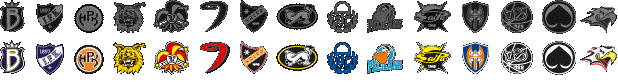
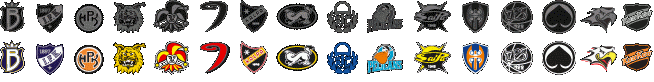
Welcome to Liiga, KooKoo

diff --git a/translations/harbour-toomiich-fi.ts b/translations/harbour-toomiich-fi.ts
@@ -1,13 +1,6 @@
 <?xml version="1.0" encoding="utf-8"?>
 <!DOCTYPE TS>
-<TS version="2.0" language="fi_FI">
-<context>
-    <name>2miich</name>
-    <message>
-        <source>2miich</source>
-        <translation type="obsolete">2miich</translation>
-    </message>
-</context>
+<TS version="2.1" language="fi_FI">
 <context>
     <name>DetailsPage</name>
     <message>
@@ -68,27 +61,27 @@
 <context>
     <name>ScoresPage</name>
     <message>
-        <location filename="../qml/pages/ScoresPage.qml" line="200"/>
+        <location filename="../qml/pages/ScoresPage.qml" line="201"/>
         <source>No games for the day</source>
         <translation>Ei otteluita päivälle</translation>
     </message>
     <message>
-        <location filename="../qml/pages/ScoresPage.qml" line="206"/>
+        <location filename="../qml/pages/ScoresPage.qml" line="207"/>
         <source>Statistics</source>
         <translation>Tilastot</translation>
     </message>
     <message>
-        <location filename="../qml/pages/ScoresPage.qml" line="211"/>
+        <location filename="../qml/pages/ScoresPage.qml" line="212"/>
         <source>Go to today</source>
         <translation>Näytä tämä päivä</translation>
     </message>
     <message>
-        <location filename="../qml/pages/ScoresPage.qml" line="215"/>
+        <location filename="../qml/pages/ScoresPage.qml" line="216"/>
         <source>Previous: </source>
         <translation>Edeltävät: </translation>
     </message>
     <message>
-        <location filename="../qml/pages/ScoresPage.qml" line="223"/>
+        <location filename="../qml/pages/ScoresPage.qml" line="224"/>
         <source>Next: </source>
         <translation>Seuraavat: </translation>
     </message>
@@ -154,13 +147,6 @@
         <location filename="../qml/pages/StatisticsPage.qml" line="285"/>
         <source>Goal leaders</source>
         <translation>Maalipörssi</translation>
-    </message>
-</context>
-<context>
-    <name>harbour-2miich</name>
-    <message>
-        <source>2miich</source>
-        <translation type="obsolete">2miich</translation>
     </message>
 </context>
 <context>

diff --git a/qml/widgets/Logo.qml b/qml/widgets/Logo.qml
@@ -26,8 +26,8 @@ Rectangle {
     color: 'transparent'
 
     Rectangle {
-        property variant widths: [25, 28, 30, 33, 35, 30, 28, 42, 31, 36, 37, 27, 32, 34, 37]
-        property variant offsets: [0, 36, 74, 113, 153, 200, 240, 276, 327, 367, 414, 462, 501, 542, 580]
+        property variant widths: [25, 28, 30, 33, 35, 30, 28, 42, 31, 36, 37, 27, 32, 34, 37, 32]
+        property variant offsets: [0, 36, 74, 113, 153, 200, 240, 276, 327, 367, 414, 462, 501, 542, 580, 621]
 
         property variant teams: {
             'Blues': 0,
@@ -42,6 +42,8 @@ Rectangle {
                     'Kalpa': 6,
                     'KalPa': 6,
                     'KAL': 6,
+		    'KooKoo': 15,
+		    'KOO': 15,
                     'Kärpät': 7,
                     'Karpat': 7,
                     'KÄR': 7,

diff --git a/qml/pages/ScoresPage.qml b/qml/pages/ScoresPage.qml
@@ -72,6 +72,7 @@ Page {
                 'Ilves': 'Ilves',
                 'JYP': 'JYP',
                 'KalPa': 'KalPa',
+                'KooKoo': 'KooKoo',
                 'Kärpät': 'Karpat',
                 'Lukko': 'Lukko',
                 'Pelicans': 'Pelicans',
